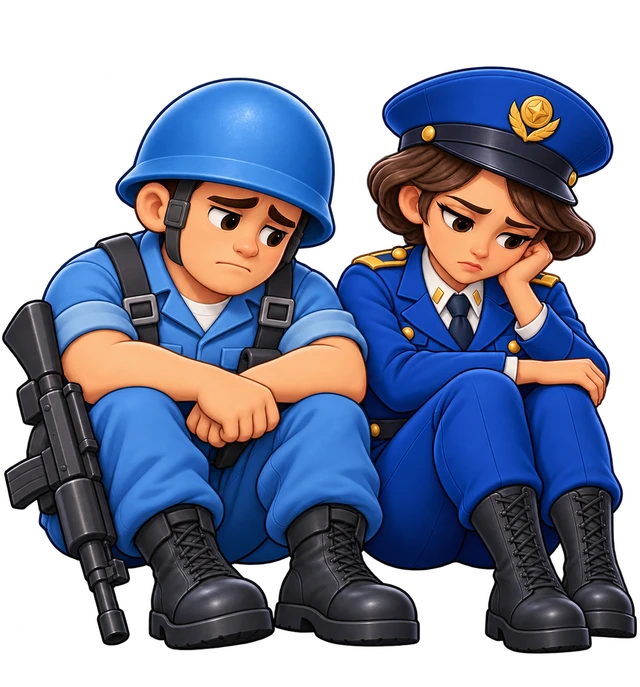
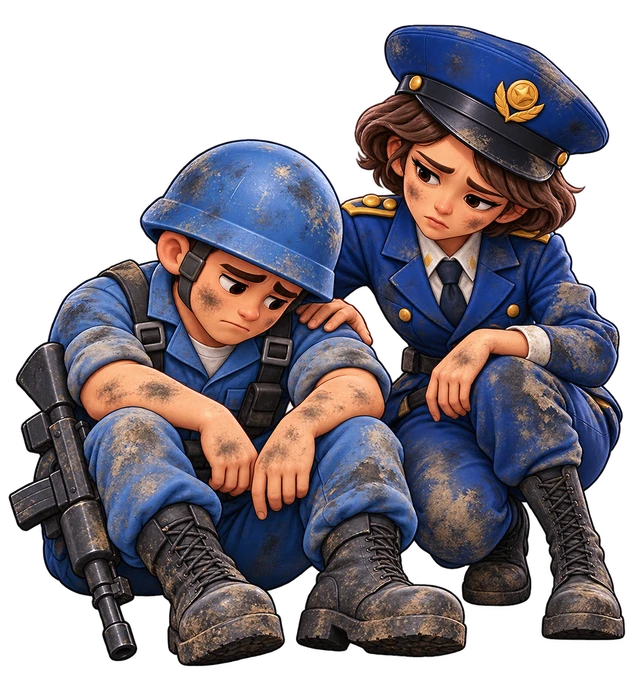
ui: make defeat a battle-worn counterpart to victory

diff --git a/src/ui/arcade.css b/src/ui/arcade.css
@@ -228,17 +228,14 @@
   animation:stage-clear-cta .35s 2.05s ease-out both; }
 .stage-clear-overlay button:active { background:#ffca60; box-shadow:0 1px #142332; }
 .stage-clear-overlay button:focus-visible { outline:3px solid #fff3dc; outline-offset:4px; }
-.defeat-results-overlay { background:linear-gradient(#081523c9, #122231b8 40%, #101c2be8); color:#dce4e8; }
+.defeat-results-overlay { background:radial-gradient(ellipse at 58% 60%, #18202c88, #07111be6 90%),
+  linear-gradient(#0a1729bb, #0c1825b8 45%, #080f1de6); color:#dce4e8; }
 .defeat-results-overlay .stage-clear-title { color:#e8edef; text-shadow:0 4px #142332, 2px 0 #142332, -2px 0 #142332;
   animation:stage-clear-reveal .35s .08s ease-out both; }
 .defeat-results-overlay .stage-clear-title::after { display:none; }
-.defeat-results-overlay .stage-clear-stat { top:25%; width:27%; text-align:center; color:#dce4e8; animation-delay:.2s; }
-.defeat-results-overlay .stage-clear-stat[data-result="0"] { left:5%; }
-.defeat-results-overlay .stage-clear-stat[data-result="1"] { left:36.5%; }
-.defeat-results-overlay .stage-clear-stat[data-result="5"] { left:68%; }
-.defeat-results-overlay dd { font-size:clamp(24px, 7.6vw, 32px); }
-.defeat-results-overlay .stage-clear-illustration { left:10%; top:35%; width:80%; height:47%;
-  object-position:center bottom; animation-delay:.25s; }
+.defeat-results-overlay .stage-clear-stat { width:38%; color:#dce4e8; animation-delay:.2s; }
+.defeat-results-overlay dd { font-size:clamp(32px, 9.5vw, 42px); }
+.defeat-results-overlay .stage-clear-illustration { animation-delay:.25s; filter:brightness(.86) saturate(.82); }
 .defeat-results-overlay button { background:linear-gradient(#e3e8e9,#aabec9); animation-delay:.55s; }
 .defeat-results-overlay button:active { background:#aabec9; }
 #game-viewport:has(> .defeat-results-overlay:not([hidden]))

diff --git a/src/ui/StageClearOverlay.ts b/src/ui/StageClearOverlay.ts
@@ -29,7 +29,7 @@ export class StageClearOverlay {
     const title = document.createElement('h1'); title.textContent = defeat ? '作戰失敗' : '第一關通關！';
     title.id = titleId; title.className = 'stage-clear-title';
     this.illustration.className = 'stage-clear-illustration';
-    this.illustration.alt = defeat ? '海防指揮官與藍盔士兵蹲坐在地上，神情沮喪' : '海防指揮官微笑著將手放在藍盔士兵肩膀上';
+    this.illustration.alt = defeat ? '滿身塵土的士兵低頭蹲坐在地上，疲憊的指揮官蹲在身旁，手扶他的肩膀' : '海防指揮官微笑著將手放在藍盔士兵肩膀上';
     this.illustration.src = publicAssetUrl(`art/${defeat ? 'defeat' : 'victory'}/commander-soldier.webp`);
     this.illustration.decoding = 'async'; this.illustration.draggable = false;
     this.button.type = 'button'; this.button.textContent = defeat ? '再試一次' : '再玩一次';

diff --git a/public/art/defeat/PROVENANCE.md b/public/art/defeat/PROVENANCE.md
@@ -1,10 +1,10 @@
 # Defeat results illustration
 
-- Generated with OpenAI's built-in imagegen tool for P4.27.
-- Identity/style reference: the existing `art/victory/commander-soldier.webp` (same commander and blue-helmet soldier).
+- Edited with OpenAI's built-in imagegen tool for P4.28.
+- Edit target: the preceding defeat illustration (same commander and blue-helmet soldier, originally referenced from victory).
 - Output: transparent paired illustration, resized to 640px wide and encoded as WebP quality 90; no gameplay assets replaced.
-- Direction: both characters seated/crouched on the ground, shoulders slumped, troubled expressions, complete boots/hands, lowered rifle; no injuries, scenery, text or victory gestures. Royal-blue arcade toy illustration with cool restrained shading.
+- Direction: collapsed, self-blaming soldier; tired, disappointed but supportive commander crouched beside him with a hand on his shoulder. Visible ash, dust, grime and scuffing, subdued blue shading. No gore, scenery, text or victory gestures.
 
 ## Final generation prompt
 
-Create ONE new production game illustration on a genuinely transparent alpha background. The supplied image is a CHARACTER IDENTITY AND STYLE REFERENCE, not an edit target to overwrite. Preserve the same recognizable short-haired young female commander in royal blue officer cap with gold insignia, royal blue uniform and boots, and the same male blue-helmet toy soldier with blue uniform, charcoal gear and boots. Match this polished hand-painted military arcade toy illustration, bold clean outlines, coherent anatomy and lighting, full figures. New pose and mood: DEFEAT, discouragement and frustration after a setback. BOTH commander and soldier are crouched/seated ON THE GROUND, close together, shoulders slumped, knees bent, boots visible, arms resting heavily on knees. Soldier on left, commander on right. Their faces look dejected, brows troubled, mouths subdued, heads lowered slightly; no smiles, no triumph, no victory poses. The commander is also visibly seated low on the ground, never standing over the soldier. They are uninjured and recognizable, not grotesque or crying theatrically. Soldier's rifle lies safely lowered alongside his leg, no aiming. Compact cohesive paired silhouette, roughly square or slightly taller than wide, very little unused margin; exactly TWO people with complete caps, hands, legs, boots. Cool restrained shading but readable royal blue, not monochrome. No environment, no floor rectangle, no painted ground, no scenery, no UI, no lettering, no logos, no glowing effects, no speech bubbles. True transparent background around the complete seated pair, suitable for the lower-right of a portrait mobile defeat results poster. Do not reproduce the standing victory pose.
+Edit the supplied TopWar defeat illustration into its production polish. Keep the same recognizable short-haired female commander, royal-blue officer cap with gold insignia, blue uniform, and male blue-helmet soldier; keep the polished hand-painted stylized military arcade toy character language, clean strong silhouette, full hands, legs and boots, exactly two people, true transparent alpha background. Change the pose/emotional storytelling: the soldier sits collapsed low on the ground with knees bent, shoulders drooping, head lowered, brows sad and ashamed as if he feels he let his commander down. The commander kneels/crouches beside him on his RIGHT, slightly higher but still low and close; she looks exhausted and disappointed too, never angry or scolding. She gently rests one hand on his shoulder in quiet supportive companionship, gazing toward him with tired concern. Their poses must be distinctly different, no identical paired knee-hugging pose. Both have plainly visible gray dust, charcoal ash and tan dirt smeared on cheeks, hands, sleeves, knees, helmet/cap edges and boots; scuffed and stained uniforms and dull equipment show a tough battle. Keep blue identity but use cooler muted navy/gray shading and subdued lighting, less glossy and less clean than the input. A tiny superficial scrape is acceptable but no significant injury, no gore, no realism-heavy wounds. Soldier's dark rifle remains lowered beside his leg, no aiming. Compact complete pair suitable for LOWER RIGHT of portrait mobile results poster; character identities and visual language must remain consistent. No text, no UI, no background scenery, no ground rectangle, no smoke particles outside the silhouette, no glow, no logos. Preserve transparent background and do not crop caps or boots.

diff --git a/ART_DIRECTION.md b/ART_DIRECTION.md
@@ -1,6 +1,6 @@
 # Current visual contract
 
-Defeat results reuse the victory poster structure with a cool subdued backdrop, ivory 「作戰失敗」 title, three concise results and a large 「再試一次」 button. The same Commander and blue-helmet soldier sit on the ground with slumped shoulders and discouraged expressions. Keep the complete paired silhouette readable above the bottom action; no victory shine or triumphant pose. Background combat freezes after fatal feedback and HUD clutter is hidden. New transparent art is documented in `public/art/defeat/PROVENANCE.md`. Pixel 8 presentation acceptance is pending.
+Defeat results echo victory: ivory 「作戰失敗」 at the top, three results down the left, the complete character pair lower-right and 「再試一次」 at the bottom. A darker cool vignette mutes the battlefield. The grime/ash-stained soldier sits low with bowed head and collapsed shoulders; a tired, disappointed but supportive Commander crouches beside him, hand on his shoulder. Preserve the stylized blue identity, quiet companionship and mobile readability; no anger, gore, victory shine or triumphant pose. Background combat freezes after fatal feedback and HUD clutter is hidden. New transparent art is documented in `public/art/defeat/PROVENANCE.md`. Pixel 8 presentation acceptance is pending.
 
 P4.24 promotes the owner Pixel 8-approved Lab designs. Tank/Destroyer impacts retain B-fast shape/fire/wind with lighter gray, lower-opacity smoke, earlier .25s fade and full expiry at 1.05s. Airstrikes now use Hybrid D: Control white flash/ring, brief embedded orange fire, cohesive billows and per-impact 1.5–2s fade. Keep the DEV Lab as a frozen comparison/reference tool; original Control/A/B/C and accepted variants remain available. The artillery-only readability polish awaits Pixel 8 acceptance; Hybrid D production acceptance (#12) remains open. See [comparison instructions](docs/EXPLOSION_LAB.md).
 

diff --git a/GAME_SPEC.md b/GAME_SPEC.md
@@ -16,7 +16,7 @@ Five stationary lanes; player Z=0. Hold left/right for adjacent lane steps, or u
 
 ## Defeat results
 
-Losing the last soldier retains the final casualty feedback, then shows 「作戰失敗」 with 存活時間, 擊殺總數 and 命中率 from the terminal simulation state. The three values remain fixed; zero shots report 0.0%. Historical saves without combat statistics remain valid and display zero for unavailable counters, without injecting retrospective statistics. A cooler subdued results poster shows the Commander and a soldier seated on the ground, discouraged. Combat HUD is hidden and the battlefield presentation freezes once the poster appears. 「再試一次」 uses the existing Retry path, clearing results and old effects. Victory, checkpoint format, terminal-save removal, audio/dialogue and gameplay are unchanged. Pixel 8 visual acceptance is pending.
+Losing the last soldier retains the final casualty feedback, then shows 「作戰失敗」 with 存活時間, 擊殺總數 and 命中率 from the terminal simulation state. The three values remain fixed; zero shots report 0.0%. Historical saves without combat statistics remain valid and display zero for unavailable counters, without injecting retrospective statistics. The cooler, darker vignetted poster echoes victory: title above, results down the left and a lower-right illustration. A dirty, ash-stained soldier sits collapsed and discouraged beside a tired Commander who supports his shoulder; neither is triumphant or angry. Combat HUD is hidden and the battlefield presentation freezes once the poster appears. 「再試一次」 uses the existing Retry path, clearing results and old effects. Victory, checkpoint format, terminal-save removal, audio/dialogue and gameplay are unchanged. Pixel 8 visual acceptance is pending.
 
 ## 海防指揮官通訊
 

diff --git a/ROADMAP.md b/ROADMAP.md
@@ -4,7 +4,7 @@
 
 Enemy artillery impact smoke now reads lighter gray with lower opacity, fade from .25s and expiry at 1.05s. Initial fire/flash and wind remain; all other VFX families are unchanged. Pixel 8 readability acceptance is pending.
 
-Defeat now ends with 「作戰失敗」, three stable combat results, a seated discouraged Commander/soldier illustration and 「再試一次」. The battlefield freezes after final casualty feedback; victory and saves retain their existing flow. Pixel 8 presentation acceptance is pending.
+Defeat’s 「作戰失敗」 poster now echoes victory with left-side results, lower-right battle-worn characters and 「再試一次」. The soldier is discouraged and the tired Commander supports his shoulder; a darker cool vignette reinforces the mood. The battlefield freezes after final casualty feedback; victory and saves retain their existing flow. Pixel 8 presentation acceptance is pending.
 
 Immediate first-load feedback (#21) now appears before modules and data, handing over to the existing protected recovery choice or single Tap-to-Start gesture. Slow/failing resources have Reload recovery. Owner Pixel 8 startup feel review remains pending.
 
